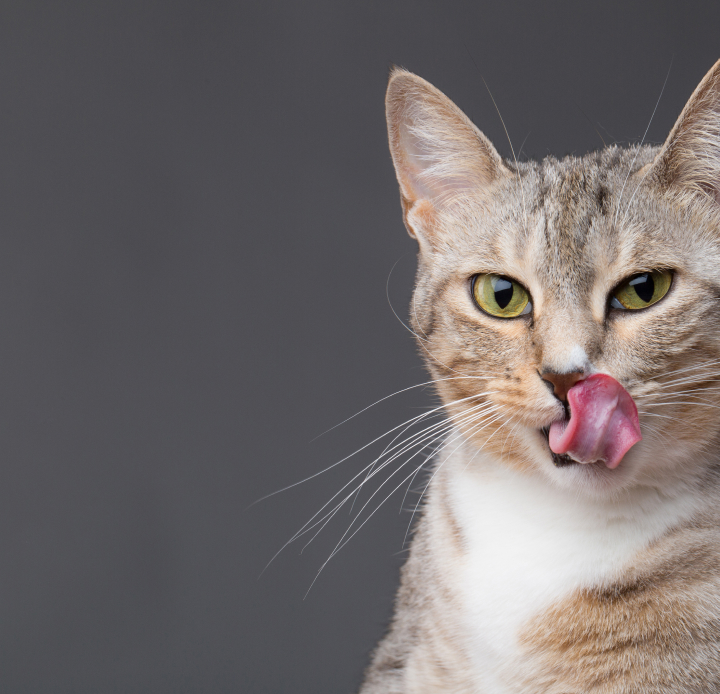
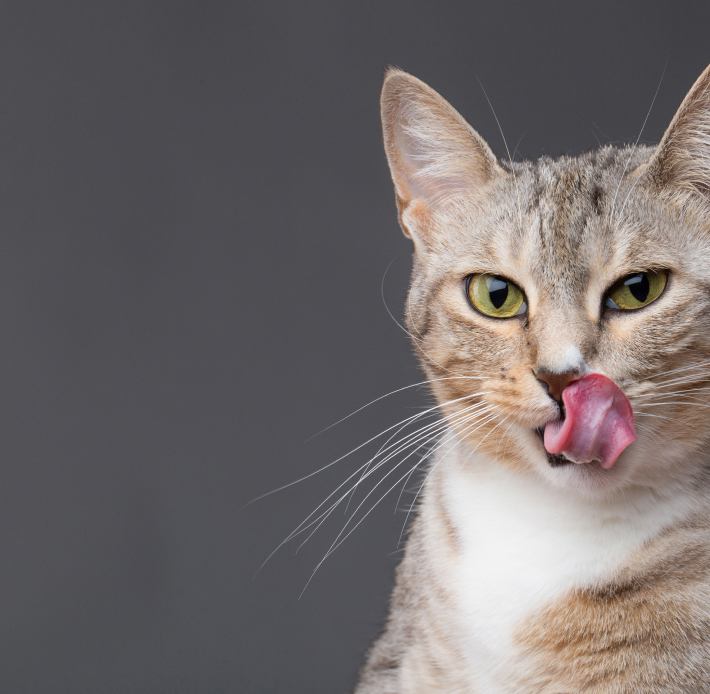
Webp для главной, открытие-закрытие меню в мобильной версии, обрезка изображения с фоновым котом

diff --git a/source/index.html b/source/index.html
@@ -38,9 +38,9 @@
         <a class="logo-container logo-container--additional">
           <img src="img/logo-mobile-text.svg" width="101" height="18" alt="Cat Energy" class="logo-text page-header__logo-text">
         </a>
-        <button class="nav-button" type="button" aria-label="Меню"></button>
+        <button class="nav-button nav-button--menu-closed" type="button" aria-label="Меню"></button>
       </div>
-      <ul class="nav">
+      <ul class="nav nav--closed">
         <li class="nav__item">
           <a class="nav__link nav__link--active">Главная</a>
         </li>
@@ -184,7 +184,12 @@
             <span class="address__city">Санкт-Петербург</span>
           </p>
         </div>
+        <div class="map map--interactive"></div>
         <picture>
+          <source type="image/webp" media="(min-width: 1440px)" srcset="img/Map.webp, img/Map@2x.webp 2x">
+          <source type="image/webp" media="(min-width: 768px)" srcset="img/location-tablet.webp, img/location-tablet@2x.webp 2x">
+          <source type="image/webp" srcset="img/location-mobile.webp, img/location-mobile@2x.webp 2x">
+
           <source media="(min-width: 1440px)" srcset="img/Map.png, img/Map@2x.png 2x">
           <source media="(min-width: 768px)" srcset="img/location-tablet.png, img/location-tablet@2x.png 2x">
           <img src="img/location-mobile.png" srcset="img/location-mobile@2x.png 2x" width="320" height="362" alt="Расположение на карте" class="map">
@@ -233,6 +238,34 @@
     </footer>
 
     <script>
+      const CLOSED_MENU_CLASS = 'nav--closed';
+      const CLOSED_BUTTON_CLASS = 'nav-button--menu-closed';
+      const menuButton = document.querySelector('.nav-button');
+      const menu = document.querySelector('.nav');
+
+      console.log('menuButton', menuButton);
+      console.log('menu', menu);
+
+      const handleOpenMenu = () => {
+        menu.classList.remove(CLOSED_MENU_CLASS);
+        menuButton.classList.remove(CLOSED_BUTTON_CLASS);
+
+        menuButton.removeEventListener('click', handleOpenMenu);
+        menuButton.addEventListener('click', handleCloseMenu);
+      };
+
+      const handleCloseMenu = () => {
+        menu.classList.add(CLOSED_MENU_CLASS);
+        menuButton.classList.add(CLOSED_BUTTON_CLASS);
+
+        menuButton.removeEventListener('click', handleCloseMenu);
+        menuButton.addEventListener('click', handleOpenMenu);
+      };
+
+      menuButton.addEventListener('click', handleOpenMenu);
+
+      // ---------------------- Slider ----------------------
+
       const SliderClassName = {
         DEFAULT: 'slider-container',
         BEFORE: 'slider-container--before',

diff --git a/source/sass/header/nav-button.scss b/source/sass/header/nav-button.scss
@@ -9,18 +9,7 @@
   background: none;
   border: none;
 
-  &::before {
-    content: "";
-    position: absolute;
-    top: 11px;
-    left: 0;
-    display: block;
-    width: 25px;
-    height: 2px;
-    background-color: $black;
-    transform: rotate(45deg);
-  }
-
+  &::before,
   &::after {
     content: "";
     position: absolute;
@@ -30,7 +19,31 @@
     width: 25px;
     height: 2px;
     background-color: $black;
+  }
+
+  &::before {
+    transform: rotate(45deg);
+  }
+
+  &::after {
     transform: rotate(-45deg);
+  }
+
+  &--menu-closed {
+    &::before {
+      top: 11px;
+      left: 0;
+      width: 24px;
+      height: 1.5px;
+      transform: translateY(1px);
+      box-shadow:
+        0 8px 0 0 $black,
+        0 -8px 0 0 $black;
+    }
+
+    &::after {
+      display: none;
+    }
   }
 
   &:active {

diff --git a/source/sass/footer/map.scss b/source/sass/footer/map.scss
@@ -8,6 +8,13 @@
   max-width: 320px;
   height: auto;
 
+  &--interactive {
+    position: absolute;
+    width: 100%;
+    height: 362px;
+    opacity: 0.5;
+  }
+
   @media (min-width: $tablet-width) {
     height: auto;
     max-height: 400px;

diff --git a/source/sass/header/nav.scss b/source/sass/header/nav.scss
@@ -13,6 +13,14 @@
     align-items: center;
     flex-wrap: wrap;
   }
+
+  &--closed {
+    display: none;
+
+    @media (min-width: $tablet-width) {
+      display: flex;
+    }
+  }
 }
 
 .nav__item {
